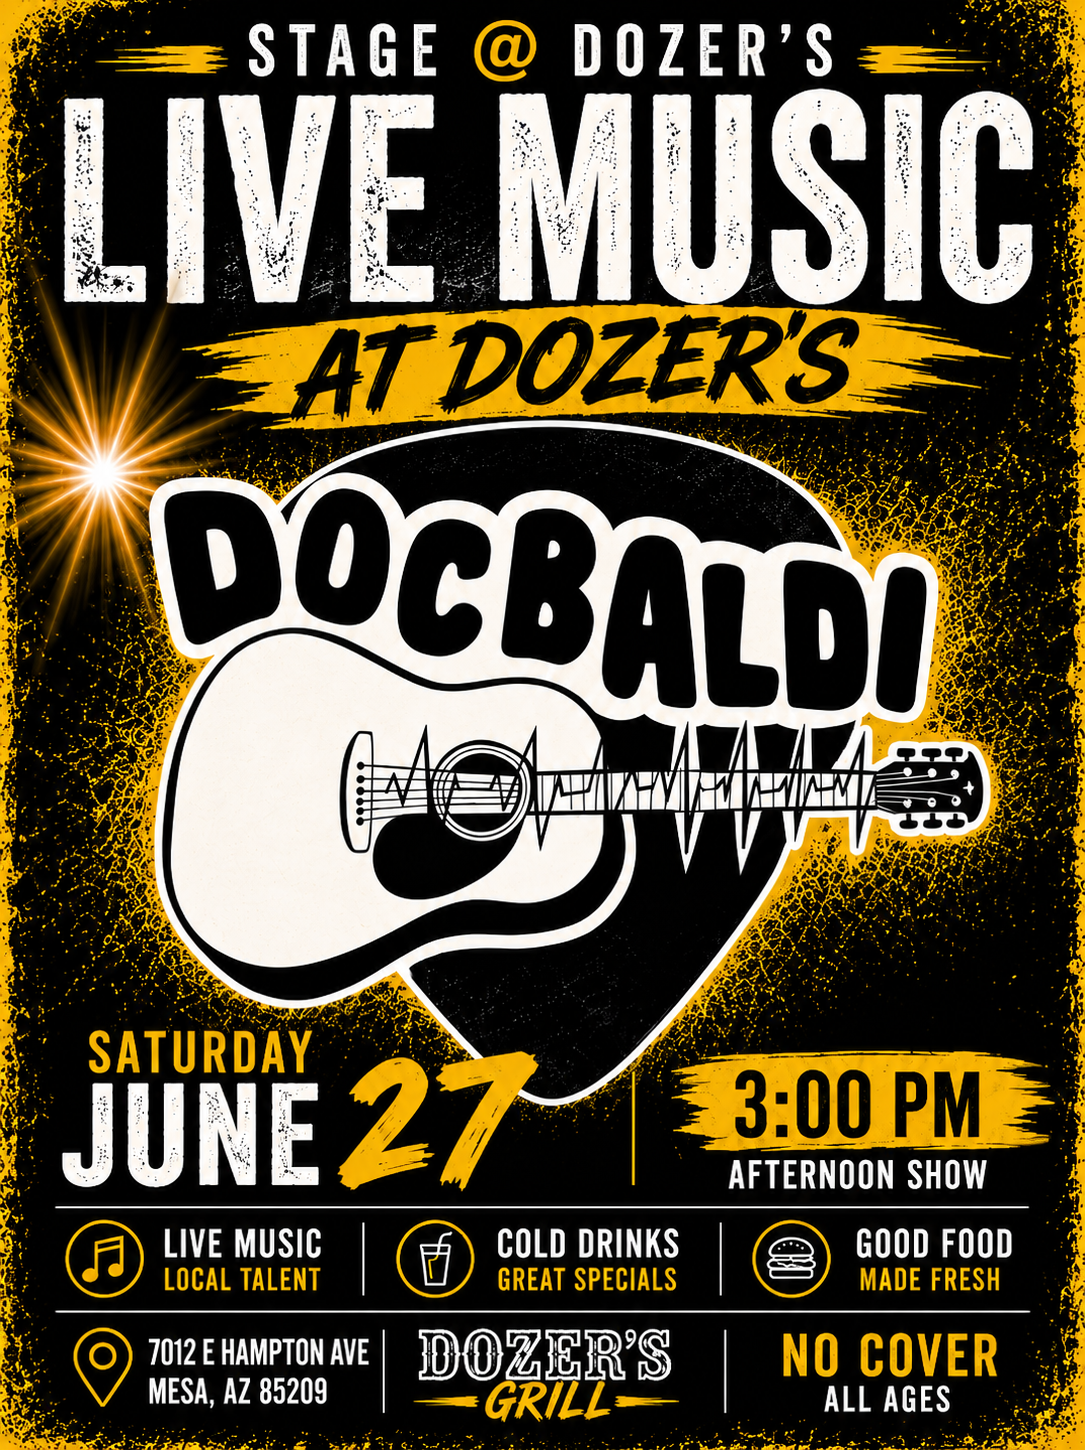
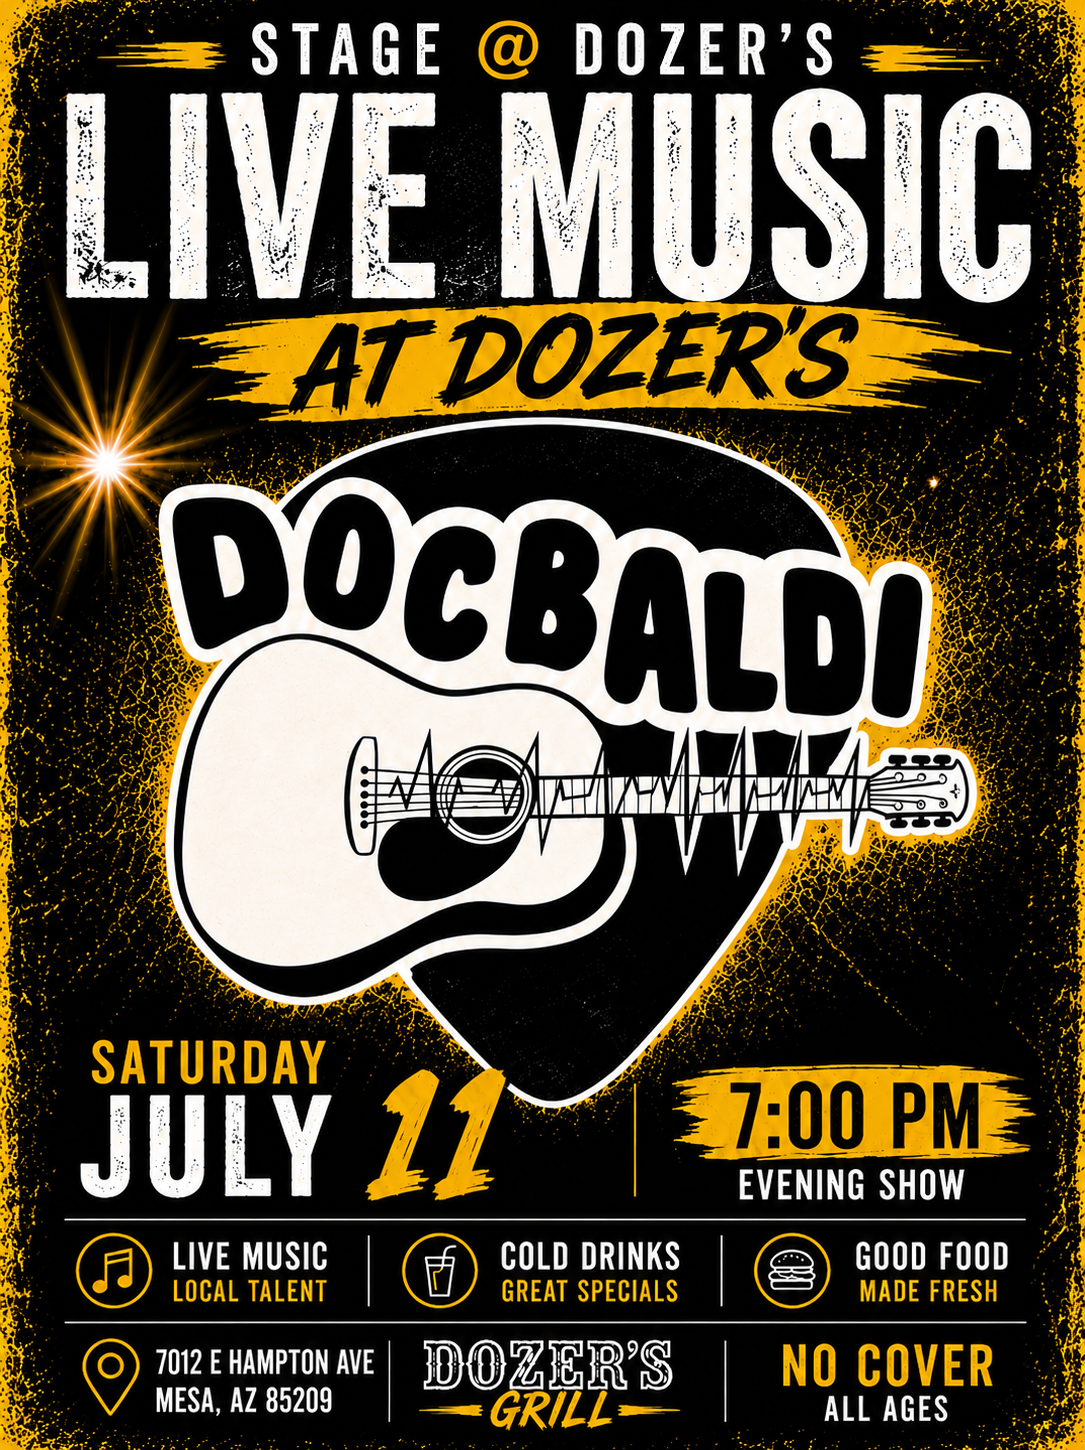
Update July live music lineup and posters

diff --git a/app/live-music/page.tsx b/app/live-music/page.tsx
@@ -8,100 +8,100 @@ import { Button } from "@/components/ui/button";
 
 const liveShows = [
   {
-    day: "6",
-    month: "JUNE",
+    day: "11",
+    month: "JULY",
     weekday: "Saturday",
-    title: "Poor Barbie",
-    date: "Saturday, June 6",
+    title: "Worlds Smallest Quartet",
+    date: "Saturday, July 11th",
     time: "3:00 PM",
     desc: "Kick off the afternoon with live local music, cold drinks, and Dozer’s weekend energy.",
     tags: ["Afternoon Show", "No Cover", "Local Talent"],
     accent: "#F59E0B",
-    image: "/images/live-music/poor-barbie.jpg",
+    image: "/images/live-music/wsq.jpg",
   },
   {
-    day: "6",
-    month: "JUNE",
+    day: "11",
+    month: "JULY",
     weekday: "Saturday",
-    title: "Tim Apple",
-    date: "Saturday, June 6",
+    title: "Doc Baldi",
+    date: "Saturday, July 11th",
     time: "7:00 PM",
     desc: "Keep the night going with a high-energy evening set on the Stage @ Dozer’s.",
     tags: ["Evening Show", "Cold Drinks", "Good Times"],
     accent: "#29C3FF",
-    image: "/images/live-music/tim-apple.jpg",
+    image: "/images/live-music/doc-baldi.jpg",
   },
   {
-    day: "13",
-    month: "JUNE",
+    day: "18",
+    month: "JULY",
     weekday: "Saturday",
-    title: "Arizona Avenue",
-    date: "Saturday, June 13",
+    title: "Ian Eric",
+    date: "Saturday, July 18th",
     time: "3:00 PM",
     desc: "Arizona Avenue brings live music, familiar favorites, and weekend patio vibes.",
     tags: ["Live Band", "Patio Vibes", "Weekend"],
     accent: "#10B981",
-    image: "/images/live-music/arizona-avenue.jpg",
+    image: "/images/live-music/ian-eric.jpg",
   },
   {
-    day: "13",
-    month: "JUNE",
+    day: "18",
+    month: "JULY",
     weekday: "Saturday",
-    title: "Notes From Neptune",
-    date: "Saturday, June 13",
+    title: "The Swing Jugs",
+    date: "Saturday, July 18th",
     time: "7:00 PM",
     desc: "An evening show built for drinks, dinner, and hanging out with your crew.",
     tags: ["Evening Show", "Dinner & Drinks", "Local Talent"],
     accent: "#F59E0B",
-    image: "/images/live-music/notes-from-neptune.jpg",
+    image: "/images/live-music/the-swinging-jugs.jpg",
   },
   {
-    day: "20",
-    month: "JUNE",
+    day: "25",
+    month: "JULY",
     weekday: "Saturday",
-    title: "Stilettos",
-    date: "Saturday, June 20",
+    title: "Velvet Crush",
+    date: "Saturday, July 25th",
     time: "3:00 PM",
     desc: "Feel-good music and afternoon energy to start your Saturday right.",
     tags: ["Afternoon Show", "Local Music", "Dozer’s Stage"],
     accent: "#29C3FF",
-    image: "/images/live-music/stilettos.jpg",
+    image: "/images/live-music/velvet-crush.jpg",
   },
   {
-    day: "20",
-    month: "JUNE",
+    day: "25",
+    month: "JULY",
     weekday: "Saturday",
-    title: "Jake Dean",
-    date: "Saturday, June 20",
+    title: "Stereo Head",
+    date: "Saturday, July 25th",
     time: "7:00 PM",
     desc: "Jake Dean takes the stage for a Saturday night set at Dozer’s Grill.",
     tags: ["Saturday Night", "Cold Drinks", "No Cover"],
     accent: "#10B981",
-    image: "/images/live-music/jake-dean.jpg",
+    image: "/images/live-music/stereo-head.jpg",
   },
   {
-    day: "27",
-    month: "JUNE",
+    day: "1st",
+    month: "August",
     weekday: "Saturday",
-    title: "Doc Baldi",
-    date: "Saturday, June 27",
+    title: "Grunge Sponges",
+    date: "Saturday, August 1st",
     time: "3:00 PM",
     desc: "Classic sounds, cold drinks, and a laid-back afternoon at Dozer’s.",
     tags: ["Classic Hits", "Afternoon Show", "Cold Drinks"],
     accent: "#F59E0B",
-    image: "/images/live-music/doc-baldi.jpg",
+    image: "/images/live-music/grunge-sponges.jpg",
   },
   {
-    day: "27",
-    month: "JUNE",
+    day: "1st",
+    month: "August",
     weekday: "Saturday",
-    title: "Harry McGraw Trio",
-    date: "Saturday, June 27",
+    title: "Mike Malecker",
+    date: "Saturday, August 1st",
     time: "7:00 PM",
-    desc: "Close out June with the Harry McGraw Trio and a full night of live music.",
+    desc: "Cold Drinks, Entertainment, and good vibes to start your weekend off right.",
     tags: ["Trio", "Evening Show", "Good Times"],
     accent: "#29C3FF",
-    image: "/images/live-music/harry-mcgraw-trio.jpg",
+    image: "/images/live-music/mike-malecker.jpg",
   },
 ];
 
@@ -185,7 +185,7 @@ export default function LiveMusicPage() {
               Upcoming Shows
             </p>
             <h2 className="text-4xl md:text-5xl font-[Playfair_Display] text-white">
-              June Lineup
+              July Lineup
             </h2>
           </div>
 

diff --git a/app/page.tsx b/app/page.tsx
@@ -38,31 +38,31 @@ export default function Home() {
 
   const liveMusicSchedule = [
     {
-      date: "Sat June 6",
+      date: "Sat July 11th",
       acts: [
-        { time: "3PM", name: "Poor Barbie" },
-        { time: "7PM", name: "Tim Apple" },
+        { time: "3PM", name: "Worlds Smallest Quartet" },
+        { time: "7PM", name: "Doc Baldi" },
       ],
     },
     {
-      date: "Sat June 13",
+      date: "Sat July 18th",
       acts: [
-        { time: "3PM", name: "Arizona Avenue" },
-        { time: "7PM", name: "Notes From Neptune" },
+        { time: "3PM", name: "Ian Eric" },
+        { time: "7PM", name: "Swinging Jugs" },
       ],
     },
     {
-      date: "Sat June 20",
+      date: "Sat July 25th",
       acts: [
-        { time: "3PM", name: "Stilettos" },
-        { time: "7PM", name: "Jake Dean" },
+        { time: "3PM", name: "Velvet Crush" },
+        { time: "7PM", name: "Stereo Head" },
       ],
     },
     {
-      date: "Sat June 27",
+      date: "Sat August 1st",
       acts: [
-        { time: "3PM", name: "Doc Baldi" },
-        { time: "7PM", name: "Harry McGraw Trio" },
+        { time: "3PM", name: "Grunge Sponges" },
+        { time: "7PM", name: "Mike Malecker" },
       ],
     },
   ];